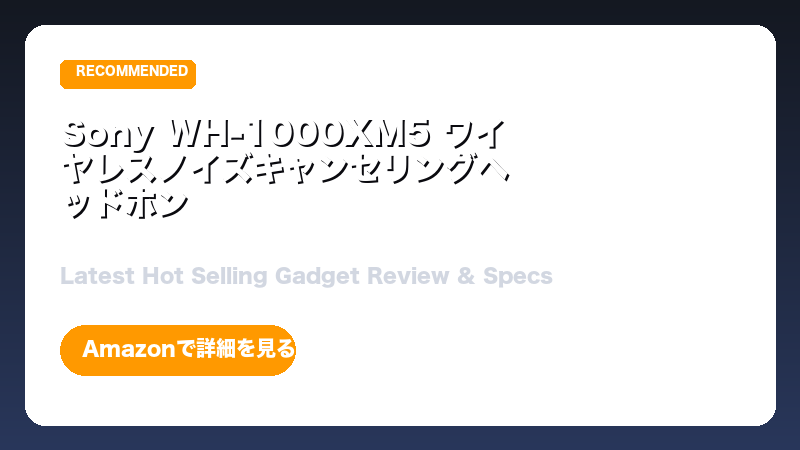
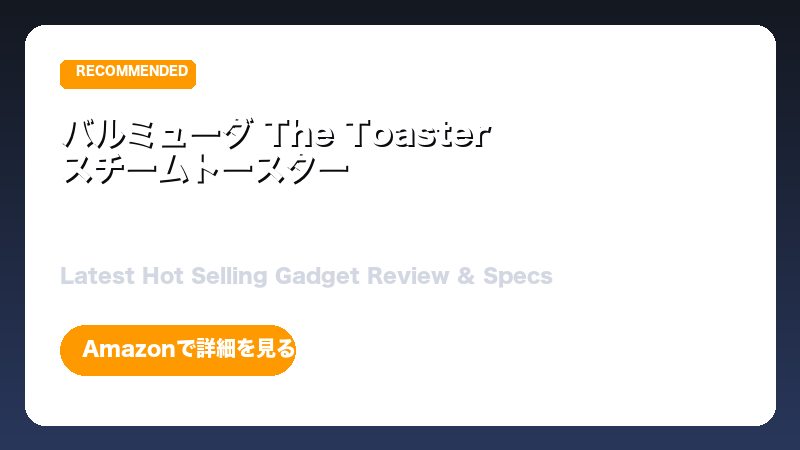
修正

Changed region(s): [[0.0625, 0.2489, 0.625, 0.4978]]

diff --git a/article_generator.py b/article_generator.py
@@ -3,6 +3,7 @@ import re
 import requests
 import json
 import time
+import urllib.parse
 from typing import Dict, Any, Optional, List
 
 class ArticleGenerator:
@@ -59,7 +60,6 @@ class ArticleGenerator:
             ("OpenRouter Free API", self._generate_with_openrouter),
             ("Hugging Face API (Free Tier)", self._generate_with_huggingface),
             ("Pollinations AI Free (No Key Required)", self._generate_with_pollinations),
-            ("DuckDuckGo Chat Free (No Key Required)", self._generate_with_duckduckgo),
         ]
 
         raw_article = None
@@ -78,11 +78,9 @@ class ArticleGenerator:
 
         # If all LLM APIs failed
         if not raw_article:
-            # Check if we are running in GitHub Actions (production)
             if os.environ.get("GITHUB_ACTIONS") == "true":
                 raise RuntimeError("All free LLM APIs failed to generate a valid review article in GitHub Actions. Cannot proceed to prevent posting spam templates.")
             else:
-                # Local dry-run fallback to allow testing without failing the script execution
                 print("WARNING: All free LLM APIs failed or are rate-limited. Since this is a local dry-run, generating dummy review text to verify downstream components.")
                 raw_article = f"""## 1. はじめに：なぜ今この商品が注目されているのか？
 これはローカル開発環境でのドライラン検証用のテスト記事です。現在、すべてのオンライン無料LLM APIがレート制限またはキー未設定のため利用できませんでした。
@@ -146,6 +144,8 @@ class ArticleGenerator:
                 return data["candidates"][0]["content"]["parts"][0]["text"]
             except KeyError:
                 return None
+        else:
+            print(f"Gemini API returned status {resp.status_code}: {resp.text}")
         return None
 
     def _generate_with_github_models(self, prompt: str) -> Optional[str]:
@@ -153,7 +153,6 @@ class ArticleGenerator:
         if not token:
             return None
         
-        # GitHub Models API endpoint
         url = "https://models.inference.ai.azure.com/chat/completions"
         headers = {
             "Authorization": f"Bearer {token}",
@@ -173,6 +172,8 @@ class ArticleGenerator:
                 return resp.json()["choices"][0]["message"]["content"]
             except (KeyError, IndexError):
                 return None
+        else:
+            print(f"GitHub Models API returned status {resp.status_code}: {resp.text}")
         return None
 
     def _generate_with_openrouter(self, prompt: str) -> Optional[str]:
@@ -200,6 +201,8 @@ class ArticleGenerator:
                 return data["choices"][0]["message"]["content"]
             except KeyError:
                 return None
+        else:
+            print(f"OpenRouter API returned status {resp.status_code}: {resp.text}")
         return None
 
     def _generate_with_huggingface(self, prompt: str) -> Optional[str]:
@@ -230,31 +233,36 @@ class ArticleGenerator:
                 return text
             except (KeyError, IndexError):
                 return None
+        else:
+            print(f"Hugging Face API returned status {resp.status_code}: {resp.text}")
         return None
 
     def _generate_with_pollinations(self, prompt: str) -> Optional[str]:
-        """完全無料・認証不要の Pollinations AI テキストAPIを利用。429回避のリトライ付き。"""
+        """Pollinations AIのテキスト生成。異なるモデルでPOSTリトライして429を回避します。"""
         url = "https://text.pollinations.ai/"
-        payload = {
-            "messages": [
-                {"role": "system", "content": "あなたはプロのモノ系ブロガー・レビューライターです。指示されたルールを厳格に守り、日本語で前置き・後書きなしでブログ本文のみを出力してください。"},
-                {"role": "user", "content": prompt}
-            ],
-            "model": "openai"
-        }
         
-        # 429 queue full recovery retry
-        for attempt in range(3):
-            resp = requests.post(url, json=payload, timeout=25)
-            if resp.status_code == 200:
-                return resp.text
-            elif resp.status_code == 429:
-                print(f"Pollinations AI text returned 429 (Queue full). Waiting {attempt + 2}s before retry...")
-                time.sleep(attempt + 2)
-            else:
-                break
-        return None
-
-    def _generate_with_duckduckgo(self, prompt: str) -> Optional[str]:
-        # Legacy placeholder, keep signature for fallback compatibility
+        # Try different free models on Pollinations to spread load and avoid 429
+        models = ["openai", "qwen", "mistral"]
+        
+        for attempt, model in enumerate(models):
+            payload = {
+                "messages": [
+                    {"role": "system", "content": "あなたはプロのモノ系ブロガー・レビューライターです。日本語で前置き・後書きなしでブログ本文のみを出力してください。"},
+                    {"role": "user", "content": prompt}
+                ],
+                "model": model
+            }
+            try:
+                print(f"Trying Pollinations AI POST (model: {model}, attempt: {attempt+1})...")
+                resp = requests.post(url, json=payload, timeout=25)
+                if resp.status_code == 200 and len(resp.text.strip()) > 300:
+                    return resp.text
+                elif resp.status_code == 429:
+                    print(f"Pollinations AI {model} returned 429. Waiting {attempt+2}s before trying next model...")
+                    time.sleep(attempt+2)
+                else:
+                    print(f"Pollinations AI {model} returned status {resp.status_code}")
+            except Exception as e:
+                print(f"Pollinations POST attempt for {model} failed: {e}")
+            
         return None